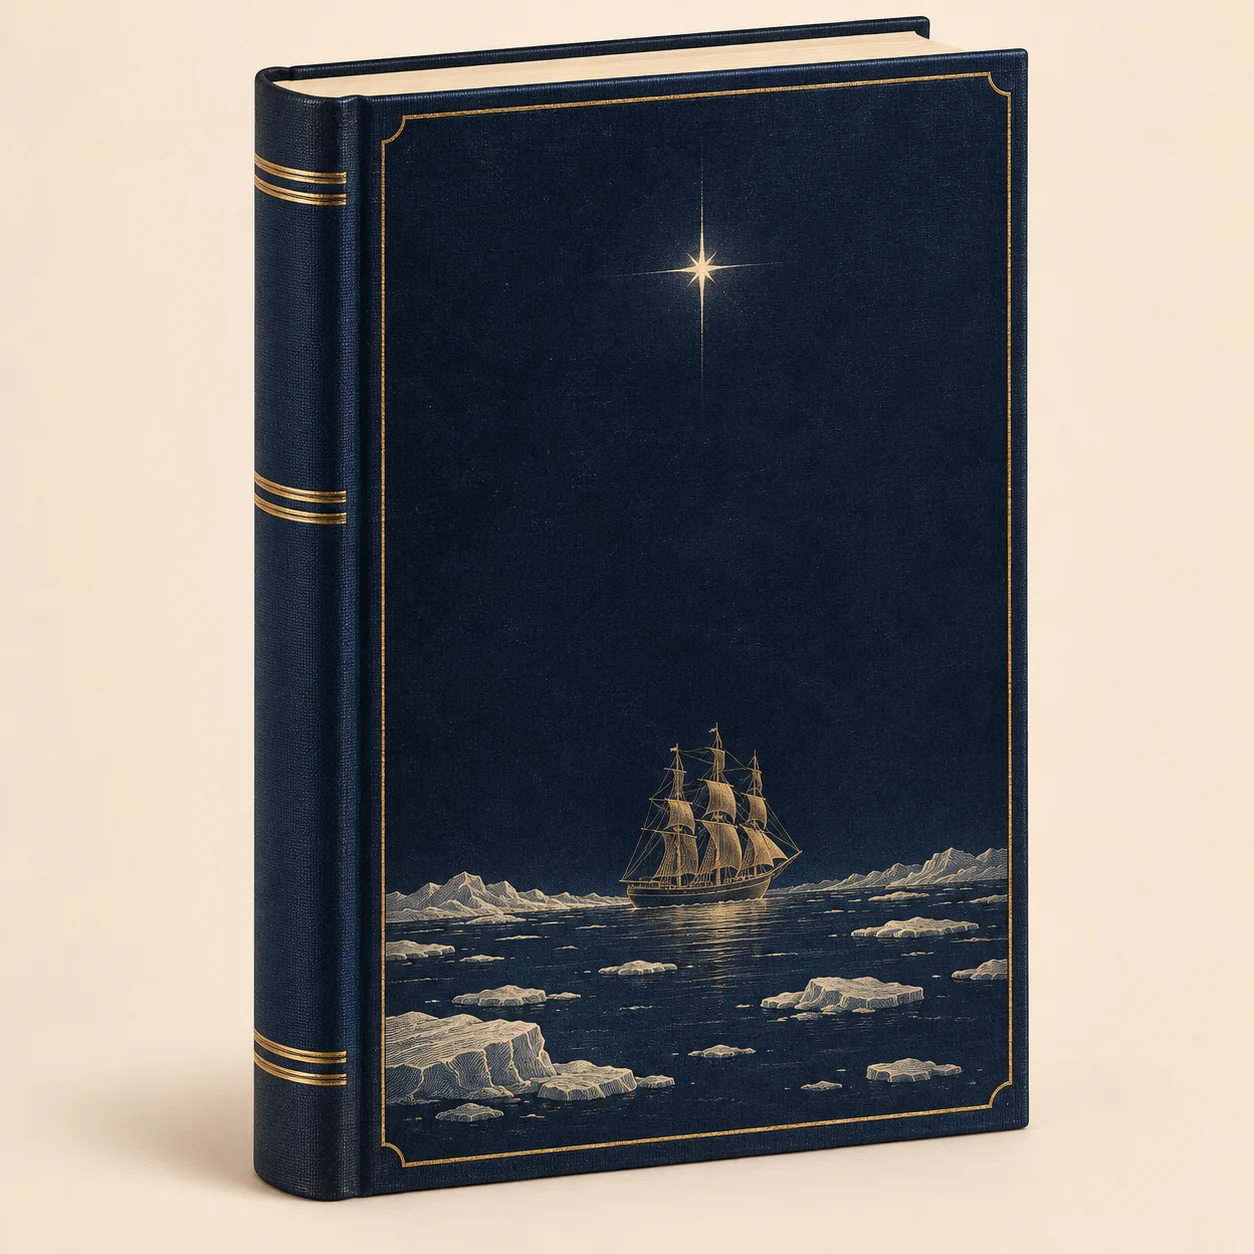
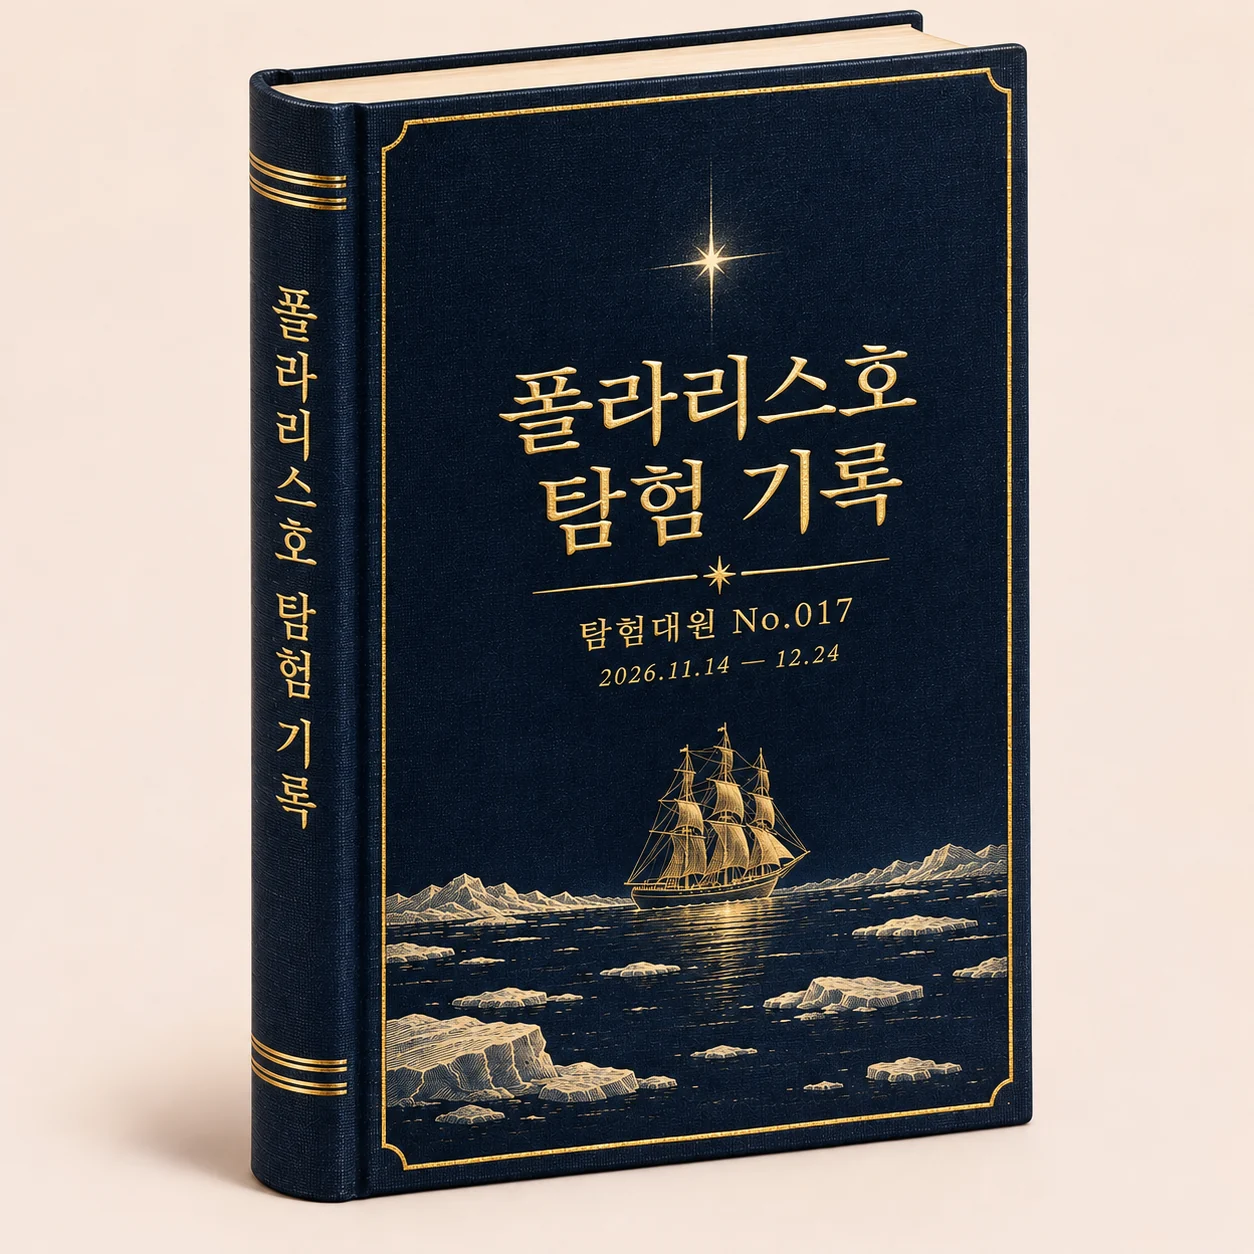
탐험대 공고 ⑥ 서가 — 글자까지 새긴 입체 표지(앞표지 · 책등)로 교체 · 겹쳐 얹은 글자 걷음
Claude-Session: https://claude.ai/code/session_01PSqLAvws7D7yWRc1FbGvNJ

Changed region(s): [[0.1866, 0.0, 0.8397, 0.9641], [0.5287, 0.1555, 0.622, 0.2488]]

diff --git a/expedition.html b/expedition.html
@@ -320,17 +320,9 @@ body.fx-edit .fx-panel{display:block}
 .fan img{display:block;width:100%;height:auto;border-radius:8px;box-shadow:0 18px 44px rgba(11,9,7,.22)}
 .fan figcaption{margin-top:10px;font-size:13px;color:var(--ink-dim)}
 
-/* ⑥ 서가의 책 — 표지 그림 위에 글자를 얹는다(대원마다 번호 · 날짜만 바꿔 쓰는 한 장) */
+/* ⑥ 서가의 책 — 글자까지 새긴 입체 표지 한 장(1103 소로 · GPT) · 앱에서 대원마다 번호를 바꿀 때는 글자 없는 판 위에 얹는다 */
 .book .bk{position:relative;container-type:inline-size;border-radius:6px;overflow:hidden;box-shadow:0 10px 28px rgba(11,9,7,.18);background:#f3e6d3}
 .book .bk img{box-shadow:none;border-radius:0}
-.bk-t{position:absolute;left:30.4%;right:19.6%;top:26.5%;display:flex;flex-direction:column;align-items:center;text-align:center;
-  font-family:var(--serif);color:#e3c67f;text-shadow:0 0 1px rgba(255,236,190,.35),0 1px 0 rgba(0,0,0,.45);pointer-events:none}
-.bk-t b{font-weight:500;font-size:6.2cqw;line-height:1.32;letter-spacing:.06em;
-  background:linear-gradient(180deg,#f3dc9e 0%,#d8b061 55%,#b88d3f 100%);-webkit-background-clip:text;background-clip:text;color:transparent}
-.bk-t i{display:block;width:34%;height:1px;margin:2.8cqw 0 2.6cqw;background:linear-gradient(90deg,transparent,#d8b061,transparent);position:relative}
-.bk-t i::after{content:'✦';position:absolute;left:50%;top:50%;transform:translate(-50%,-52%);font-style:normal;font-size:2.2cqw;color:#e8cd86;background:#16213a;padding:0 .6cqw}
-.bk-t .no{font-size:3.1cqw;letter-spacing:.14em;color:#e8cd86}
-.bk-t .dt{margin-top:1.4cqw;font-family:var(--sans);font-size:2.3cqw;letter-spacing:.12em;color:rgba(232,205,134,.82)}
 .book figcaption{line-height:1.7}
 .book figcaption b{color:var(--ink);font-weight:600}
 </style>
@@ -566,13 +558,7 @@ body.fx-edit .fx-panel{display:block}
       </figure>
       <figure class="shot book" data-file="exp_book_cover.webp">
         <div class="bk">
-          <img src="media/exp_book_cover.webp?v=1103" alt="폴라리스호 탐험 기록 — 대원마다 한 권씩 서가에 꽂히는 전자책" loading="lazy" width="1254" height="1254">
-          <div class="bk-t" aria-hidden="true">
-            <b>폴라리스호<br>탐험 기록</b>
-            <i></i>
-            <span class="no">탐험대원 No.017</span>
-            <span class="dt">2026.11.14 — 12.24</span>
-          </div>
+          <img src="media/exp_book_cover.webp?v=1103b" alt="폴라리스호 탐험 기록 — 대원마다 한 권씩 서가에 꽂히는 전자책" loading="lazy" width="1254" height="1254">
         </div>
         <figcaption><b>EG유니버스 서가에 꽂히는 전자책</b> — 탐험하며 쓴 소감이 차례대로 묶여, 귀환하는 날 당신의 집 2층 서가에 한 권으로 꽂힙니다. 표지에는 당신의 탐험대원 번호와 탐험한 날들이 새겨집니다.</figcaption>
       </figure>
